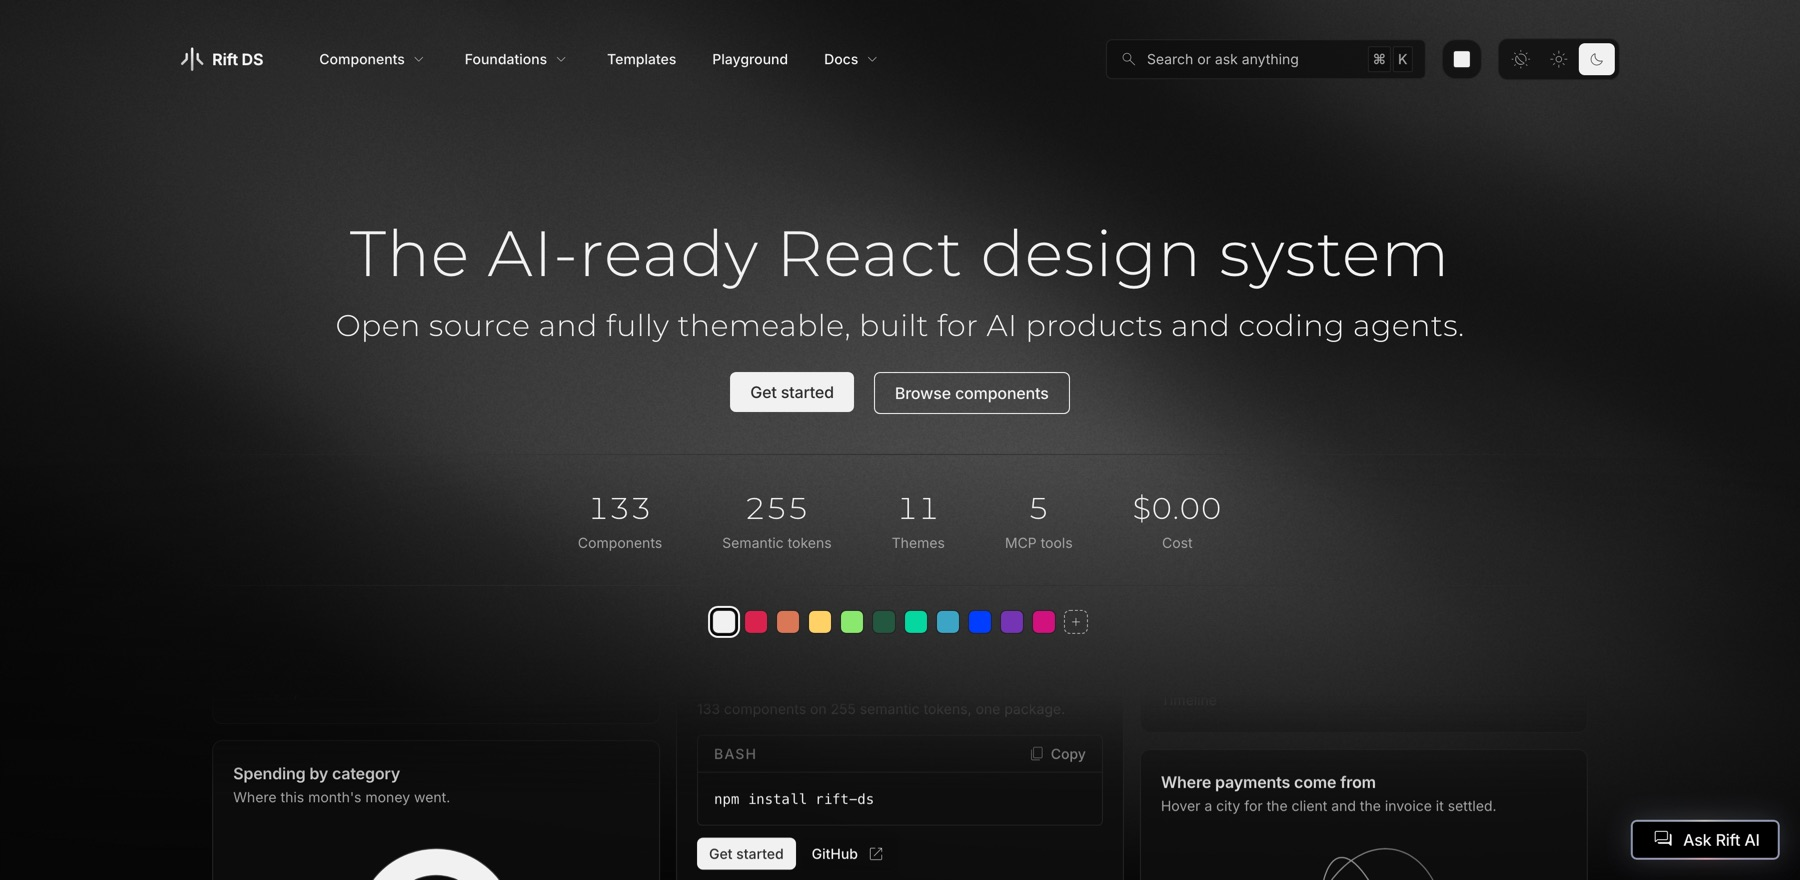
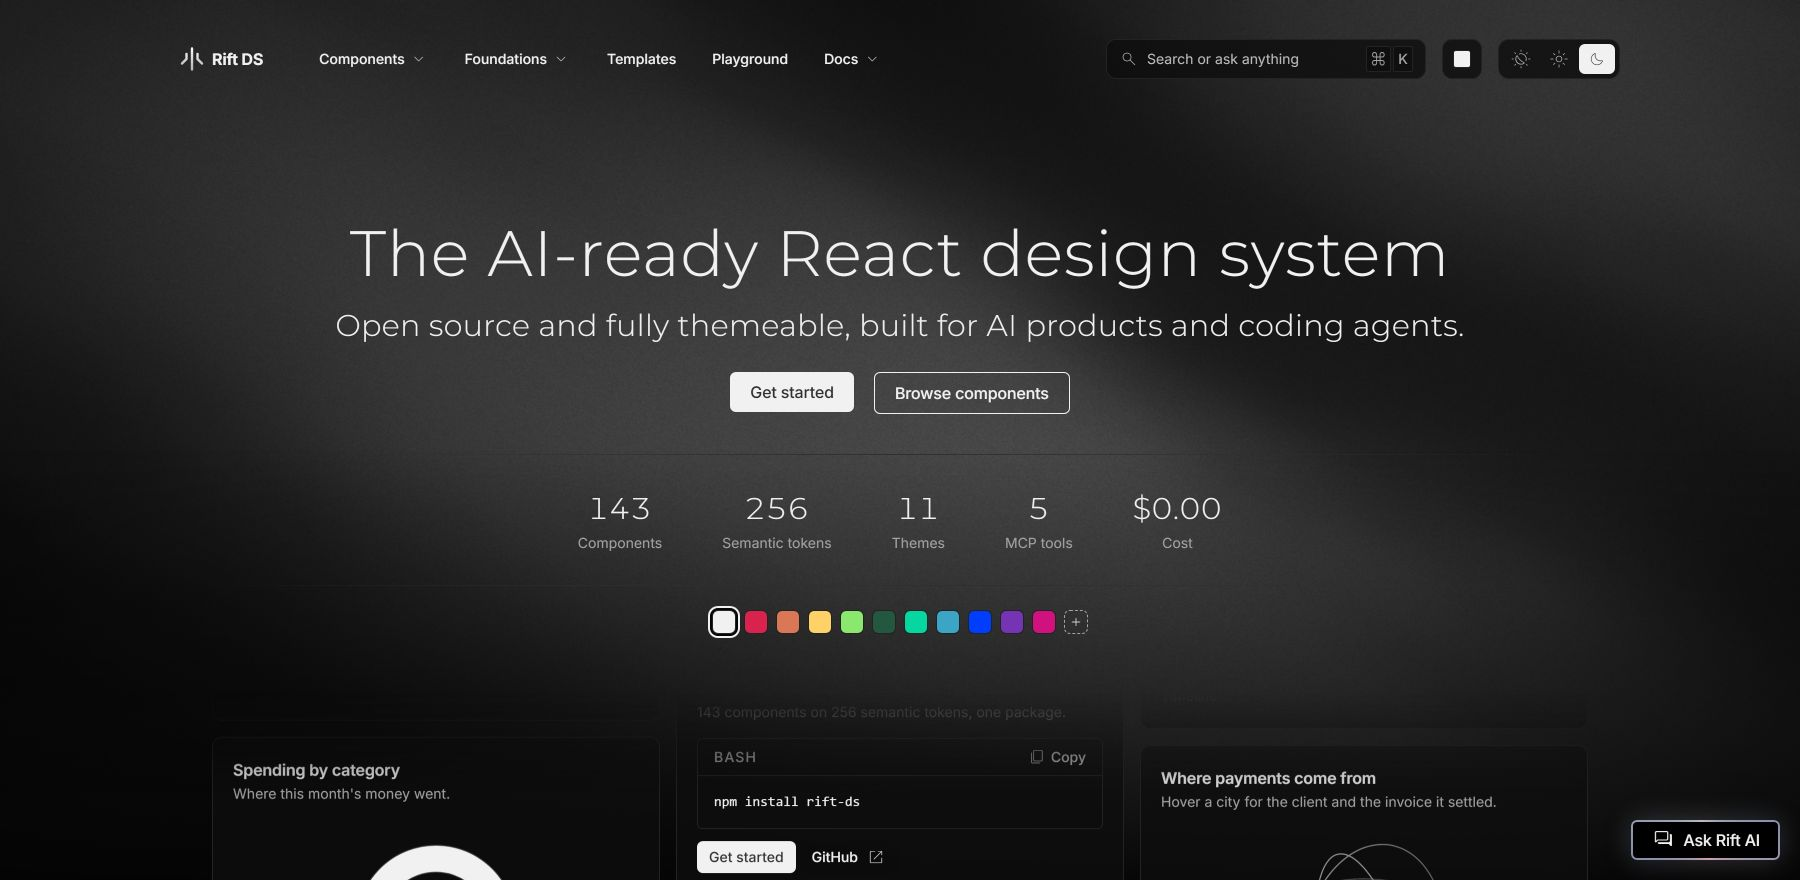
docs: repair drift found by pre-ship audit
- accessibility-audit, design-qa, token-rename: name the new ACTION_PAIRINGS
  contrast gate, so an action-fill finding reads as already enforced
- chat-quality, seo-audit, link-rot: worktrees cannot build (no node_modules);
  build at landing, and name the generator that actually fails
- release-post: fix the tag range (it spanned two releases), drop the stale
  "no earlier tags" note, point at the release log as the record
- /foundations/accessibility: describe the gate as it now runs
- colour-mode: Control Thumb swatch shows its real teal chain, not white
- Tokens story: replace the nonexistent --color-action-icon with the real
  icon tokens, add text-active and divider
- design.md: AiButton in the chat pattern list; thumb sentence scoped to dark
- package.json: overrides comment matches what npm ls reports today
- README banner re-shot: it showed 133 components and 255 tokens

diff --git a/website/src/app/foundations/accessibility/page.tsx b/website/src/app/foundations/accessibility/page.tsx
@@ -50,7 +50,7 @@ const gateRows = [
     id: "presets",
     cells: {
       gate: "Theme contrast",
-      runs: "Every shipped theme has its action colour and text resolved through the var() chain and held to the AA threshold.",
+      runs: "Every action fill in every shipped theme, at rest, on hover and when pressed, is resolved through the var() chain and held against the label or icon drawn on it: 4.5:1 for text, 3:1 for icons, in light and dark.",
       when: "The validate-registry chain",
     },
   },
@@ -224,9 +224,10 @@ export default function AccessibilityPage() {
             <SectionTitle title="Themes start from an AA baseline" divider />
             <p className={styles.sectionNote}>
               The shipped themes are examples, and the expectation is that you build your
-              own. What travels is the baseline they are built to: an action colour and
-              the text on it are resolved through the var() chain and held to the AA
-              threshold in light and dark. Every shipped theme clears it, so whichever one
+              own. What travels is the baseline they are built to: every action fill, at
+              rest, on hover and when pressed, is resolved through the var() chain and
+              held against the label or icon drawn on it, AA for text and 3:1 for icons,
+              in light and dark. Every shipped theme clears it, so whichever one
               you start from is a passing starting point.
             </p>
           </section>

diff --git a/src/stories/Tokens.stories.tsx b/src/stories/Tokens.stories.tsx
@@ -493,6 +493,10 @@ export const SemanticColors: Story = {
         />
         <ColorToken name="Text" value="--color-action-primary-text" />
         <ColorToken
+          name="Text Active"
+          value="--color-action-primary-text-active"
+        />
+        <ColorToken
           name="Text Secondary"
           value="--color-action-primary-text-secondary"
         />
@@ -509,7 +513,8 @@ export const SemanticColors: Story = {
           name="Border Tertiary"
           value="--color-action-primary-border-tertiary"
         />
-        <ColorToken name="Icon" value="--color-action-icon" />
+        <ColorToken name="Icon Default" value="--color-action-icon-default" />
+        <ColorToken name="Icon Active" value="--color-action-icon-active" />
       </TokenSection>
 
       <TokenSection title="Action - Passive (Secondary)">
@@ -554,6 +559,7 @@ export const SemanticColors: Story = {
       <TokenSection title="Overlay & Controls">
         <ColorToken name="Scrim" value="--color-scrim" />
         <ColorToken name="Control Thumb" value="--color-control-thumb" />
+        <ColorToken name="Divider" value="--color-divider" />
       </TokenSection>
 
       <TokenSection title="Core Colors">

diff --git a/website/src/app/foundations/colour-mode/page.tsx b/website/src/app/foundations/colour-mode/page.tsx
@@ -265,8 +265,8 @@ const overlayControlColours: SwatchData[] = [
   },
   {
     label: "Control Thumb", cssVar: "--color-control-thumb",
-    dark: { primitive: "--neutral--01--", hex: "#F1F1F1", rgb: "241 / 241 / 241" },
-    light: { primitive: "--neutral--00--", hex: "#FFFFFF", rgb: "255 / 255 / 255" },
+    dark: { primitive: "--teal--10--", hex: "#052F3E", rgb: "5 / 47 / 62" },
+    light: { primitive: "--teal--02--", hex: "#CFEAF3", rgb: "207 / 234 / 243" },
   },
   {
     label: "Divider", cssVar: "--color-divider",

diff --git a/.claude/skills/accessibility-audit/SKILL.md b/.claude/skills/accessibility-audit/SKILL.md
@@ -26,7 +26,7 @@ If that is green, every violation axe can detect is already absent — and re-ch
 
 **This skill exists for the three things that gate does not cover:**
 
-1. **Colour contrast — excluded from the automated gate entirely.** `color-contrast` is switched off in `.storybook/preview.ts` by a settled decision of the owner's. **Read that override's comment first**: it is the authoritative record of why, and the single place the details belong. Since the 2026-08-20 accessible-teal split the shipped pairs the rule used to fail all clear AA; the rule stays off because the action colour is a token consumers re-point to their own palettes, so the gate would be judging a value the system does not own. That makes contrast — every pair, everywhere — the manual auditor's job, and **the single highest-value thing to audit**: nothing else checks it. Never propose re-enabling the rule without asking the owner first.
+1. **Colour contrast — excluded from the axe gate entirely.** `color-contrast` is switched off in `.storybook/preview.ts` by a settled decision of the owner's. **Read that override's comment first**: it is the authoritative record of why, and the single place the details belong. Since the 2026-08-20 accessible-teal split the shipped pairs the rule used to fail all clear AA; the rule stays off because the action colour is a token consumers re-point to their own palettes, so the gate would be judging a value the system does not own. One slice of contrast is build-enforced at token level instead: `scripts/validate-theme-presets.mjs` holds every action fill against the label or icon components draw on it — resting, hover and pressed, in both themes, for the shipped tokens and every preset — and its `ACTION_PAIRINGS` table is the authoritative list of what it covers. Every other rendered pair (text and surfaces, status, charts, alpha composites over real content) is the manual auditor's job, and **the single highest-value thing to audit**: nothing else checks it. Never propose re-enabling the rule without asking the owner first.
 2. **What axe cannot see.** Axe catches roughly a third of WCAG issues. It cannot tell whether alt text is *meaningful*, whether focus order makes sense, or whether a helper message *should* have been associated with its control. (Behavior a story's `play` function asserts *is* covered — `Dialog.stories.tsx` proves the modal focus trap, restore, and stacked Escape in CI — so the manual job is the overlays with no play coverage yet.) (Two such bugs once shipped undetected until a manual survey found them: Dropdown announced neither its helper text nor its error state. Both were since fixed by moving Dropdown onto `Field`, but it took the manual survey, not axe, to find them.)
 3. **Website pages beyond the automated sample.** A page-level axe pass (`scripts/validate-website-a11y.mjs`, in `verify` and CI) now runs against the served site in both themes with the same rule set — but only over the route sample in `scripts/served-site.mjs`, at one desktop viewport. Full-site sweeps, mobile viewports, and any page outside that sample remain this skill's job.
 
@@ -68,7 +68,7 @@ Report a finding as **already-enforced** if `npm run test` or the page-level axe
    - **[manual]** Motion triggered by interaction (parallax, cursor-reactive effects) is disabled under reduced motion, or is not essential (WCAG 2.3.3)
 
 4. **Visual audit (from screenshots).** Start the preview server and screenshot the target in both light and dark mode (follow the `visual-review` skill pattern). Check:
-   - **Colour contrast (the priority — nothing automated covers this):** compute the ratio for every foreground/background pair actually rendered, not just body text. Flag anything below 4.5:1 for normal text or 3:1 for large text and UI components (WCAG 1.4.3 / 1.4.11). Note which token is used. Nothing is pre-exempt: the `color-contrast` axe rule is off for every pair (see Key context point 1), so every rendered pair is this audit's job; the shipped action pairings' AA clearance is recorded in that override's comment, so cross-check against it before flagging one of them.
+   - **Colour contrast (the priority — axe does not check it):** compute the ratio for every foreground/background pair actually rendered, not just body text. Flag anything below 4.5:1 for normal text or 3:1 for large text and UI components (WCAG 1.4.3 / 1.4.11). Note which token is used. The `color-contrast` axe rule is off for every pair (see Key context point 1); the action-fill pairings are the one slice the build gates, so cross-check a failing action pair against `ACTION_PAIRINGS` in `scripts/validate-theme-presets.mjs` — a pair it lists is already enforced (a hit there means the render is not using the token the table names), and a label or icon on an action fill that it does not list is a gap in the table worth reporting.
    - **Text sizing:** No text visually below ~12px (WCAG 1.4.4)
    - **Focus visibility:** Confirm focus rings are clearly visible in both light and dark themes
 

diff --git a/.claude/skills/release-post/SKILL.md b/.claude/skills/release-post/SKILL.md
@@ -23,13 +23,13 @@ Two principles govern everything below: **facts come from the repo, never from m
 Work from the tag, not recollection:
 
 ```bash
-git log --oneline $(git describe --tags --abbrev=0 <previous-tag>^)..v<version>
+git log --oneline $(git describe --tags --abbrev=0 v<version>^)..v<version>
 git show v<version> --no-patch --format='%s%n%b'
 ```
 
-**First release from this repo**: the history is fresh and carries no earlier tags, so there is no `<previous-tag>` to anchor the range — take it from the full history instead (`git log --oneline v<version>`).
+(`git describe` on the version tag's parent resolves to the previous release's tag, so the range is exactly this release.) **The repo's first tag** (`v1.0.0`) has no earlier tag to anchor the range — take it from the full history instead (`git log --oneline v1.0.0`).
 
-The tag message names the headline features; the commit list fills in the rest. The release-history sentence in `CLAUDE.md` (CI & Local Verify section) is the one-line summary of record — the card and copy must agree with it. Pick the strongest feature as the hero and a handful of others as supporting tiles; a release with more features than tiles drops features rather than shrinking them.
+The tag message names the headline features; the commit list fills in the rest. The version's entry in the release log (`website/src/data/release-log.json`, written at publish time by the `release` skill) is the summary of record — the card and copy must agree with it. Pick the strongest feature as the hero and a handful of others as supporting tiles; a release with more features than tiles drops features rather than shrinking them.
 
 ### 2. Lift the real design values
 
@@ -78,7 +78,7 @@ Send the PNG with SendUserFile so it lands as a file the owner can copy straight
 
 ## Guardrails
 
-- Never restate release facts from memory — the tag, the commits, and `CLAUDE.md`'s release-history sentence are the sources, and they must agree with what the card claims
+- Never restate release facts from memory — the tag, the commits, and the version's release-log entry are the sources, and they must agree with what the card claims
 - Never write a hex value or font size the token CSS didn't supply this session; the card is a picture of the system, so a drifted colour is a wrong picture
 - Working files live in the scratchpad, never the repo tree; nothing this skill produces is committed
 - The card carries no screenshots and no third-party marks — abstract drawings only

diff --git a/.claude/skills/seo-audit/SKILL.md b/.claude/skills/seo-audit/SKILL.md
@@ -47,7 +47,7 @@ Build the site (`npm run build` in `website/`), then serve it via the `website-p
 
 ### 4. Fix, verify, hand off
 
-Apply the mechanical, clearly-safe fixes in one coherent batch on the branch; leave judgment calls (crawl policy, new structured-data strategy, description rewrites that change meaning) as proposals in the report. Do not build in the worktree: a fresh one has no `node_modules`, so the first prebuild generator fails, and installing there is what `land` forbids. Commit the batch on the branch and remove the worktree (the branch survives); the build check happens when the branch is landed, whose combined `npm run verify` builds it. Metadata edits are page prose, so that build regenerates the site chat's corpus (`website/src/data/site-corpus.generated.ts`), and the regenerated file is committed with the landing.
+Apply the mechanical, clearly-safe fixes in one coherent batch on the branch; leave judgment calls (crawl policy, new structured-data strategy, description rewrites that change meaning) as proposals in the report. Do not build in the worktree: a fresh one has no `node_modules`, so the prebuild chain fails (the corpus generator needs `typescript`), and installing there is what `land` forbids. Commit the batch on the branch and remove the worktree (the branch survives); the build check happens when the branch is landed, whose combined `npm run verify` builds it. Metadata edits are page prose, so that build regenerates the site chat's corpus (`website/src/data/site-corpus.generated.ts`), and the regenerated file is committed with the landing.
 
 Where a finding is deliberately not a bug — a page intentionally out of the sitemap, an intentionally bare head — record why in a short comment at the site of the decision, so future runs read the reason instead of re-flagging it.
 

diff --git a/.claude/skills/design-qa/SKILL.md b/.claude/skills/design-qa/SKILL.md
@@ -146,7 +146,7 @@ Reference the exact element and file, e.g. "the divider in Gadget's split varian
 
 ## Guardrails
 
-- **Contrast findings:** the `color-contrast` axe rule is deliberately switched off — rule-wide, every pair — by a settled decision, and the comment beside the override in `.storybook/preview.ts` is its authoritative record (the shipped action pairings it discusses clear AA). Read it before raising any contrast finding, and never re-raise the decision itself as a finding without asking the owner first.
+- **Contrast findings:** the `color-contrast` axe rule is deliberately switched off — rule-wide, every pair — by a settled decision, and the comment beside the override in `.storybook/preview.ts` is its authoritative record (the shipped action pairings it discusses clear AA). The action fills are gated at token level regardless: `ACTION_PAIRINGS` in `scripts/validate-theme-presets.mjs` holds every action fill against what sits on it, in every state, theme and preset, so a contrast finding on one of those pairs is already enforced. Read the comment before raising any contrast finding, and never re-raise the decision itself as a finding without asking the owner first.
 - **Page reviews** inherit the false-finding caveats in the `visual-review` skill's Key context — the ambient background's two renderers, the layout-mounted chrome, `desktopOnly` nav — read that section before judging a page screenshot.
 - **A clean pass is a valid outcome.** Don't invent findings to justify the run; state what was covered and stop.
 

diff --git a/.claude/skills/chat-quality/SKILL.md b/.claude/skills/chat-quality/SKILL.md
@@ -49,7 +49,7 @@ Follow `evals/chat/README.md` exactly — it owns the procedure (the `website-ev
 
 ### 5. Fix on a branch
 
-Work in the temporary worktree on branch `chat/YYYY-MM-DD-<slug>`. One coherent batch: the new golden-set cases plus the corpus/persona fixes they demanded. A persona or tool-definition edit updates its matching rule row in `evals/chat/SPEC.md` in the same commit, and a new rule ships with either a tripwire or an explicit unenforced entry there. Verify the website build in the worktree; commit the regenerated corpus in the same batch when page prose changed.
+Work in the temporary worktree on branch `chat/YYYY-MM-DD-<slug>`. One coherent batch: the new golden-set cases plus the corpus/persona fixes they demanded. A persona or tool-definition edit updates its matching rule row in `evals/chat/SPEC.md` in the same commit, and a new rule ships with either a tripwire or an explicit unenforced entry there. Do not build in the worktree: a fresh one has no `node_modules`, so the prebuild chain fails (the corpus generator needs `typescript`), and installing there is what `land` forbids. The build check happens when the branch is landed, whose combined `npm run verify` builds it; when page prose changed, the corpus that build regenerates is committed with the landing.
 
 ### 6. Report and hand off
 

diff --git a/design.md b/design.md
@@ -94,7 +94,7 @@ EventCalendar's day cells and event pills get their own colour roles, for the sa
 
 ### Overlay & Controls
 - **Scrim** (`--color-scrim` — rgba(0,0,0,0.5) light / rgba(0,0,0,0.7) dark): Modal backdrop behind Dialog, AlertDialog, Drawer and CommandPalette. Darker in dark mode so the modal still separates from the near-black floor.
-- **Control thumb** (`--color-control-thumb` — chains to `--color-action-primary-text` in both themes): The circular thumb inside toggle switches (ToggleSwitch, SelectionCard's toggle indicator). Riding the on-action ink means every theme's AA-held action pairing keeps the thumb legible on its track — a light action fill (Smoke, Volt) gets a dark thumb automatically, where a fixed near-white value vanished into it.
+- **Control thumb** (`--color-control-thumb` — chains to `--color-action-primary-text` in both themes): The circular thumb inside toggle switches (ToggleSwitch, SelectionCard's toggle indicator). Riding the on-action ink means every theme's AA-held action pairing keeps the thumb legible on its track — a light dark-mode action fill (Smoke, Volt) gets a dark thumb automatically, where a fixed near-white value vanished into it.
 
 ### Text
 - **Primary** (`--color-text-primary` — #050505 light / #F1F1F1 dark): Headlines and primary content.

diff --git a/.claude/skills/token-rename/SKILL.md b/.claude/skills/token-rename/SKILL.md
@@ -36,7 +36,7 @@ npm run validate-registry
 
 Expect failures — they are the checklist, not a problem. The usual remainder, each named by its validator:
 
-- **Hand mirrors** — the playground's ramp/step tables, `presets.ts` overrides, InspectMode's prefix strings (`validate-theme-mirrors.mjs` names each).
+- **Hand mirrors** — the playground's ramp/step tables, `presets.ts` overrides, InspectMode's prefix strings (`validate-theme-mirrors.mjs` names each), and the action-family token names in `scripts/validate-theme-presets.mjs` (`ACTION_PAIRINGS`, the required action roles, any `SANCTIONED_AA_GAPS` keys), which that script fails on by name.
 - **Validator parsers** — a renumbering can break the regexes that parse the old shape (step patterns, label parsers). Fixing a parser to accept the new grammar is expected; weakening what it asserts is not.
 - **design.md** — every token name it mentions is held to the registry, so stale prose fails by name.
 - **Docs and doc pages** — the foundations pages' swatch rows and `src/stories/Tokens.stories.tsx` carry names in data arrays the mirrors guard; page prose that *describes* the old grammar (a "sizes run xs to xl" sentence) is yours to catch by reading, since no validator parses prose meaning.

diff --git a/.claude/skills/link-rot/SKILL.md b/.claude/skills/link-rot/SKILL.md
@@ -43,7 +43,7 @@ Also spot-check the links the script listed under known blockers — they are pr
 
 ### 3. Fix on a branch
 
-Work in the temporary worktree on branch `links/YYYY-MM-DD`. Do not build in the worktree: a fresh one has no `node_modules`, so the first prebuild generator fails, and installing there is what `land` forbids. The build check happens when the branch is landed, whose combined `npm run verify` builds it; if anchor text changed, the corpus that build regenerates is committed with the landing.
+Work in the temporary worktree on branch `links/YYYY-MM-DD`. Do not build in the worktree: a fresh one has no `node_modules`, so the prebuild chain fails (the corpus generator needs `typescript`), and installing there is what `land` forbids. The build check happens when the branch is landed, whose combined `npm run verify` builds it; if anchor text changed, the corpus that build regenerates is committed with the landing.
 
 ### 4. Report and hand off
 
